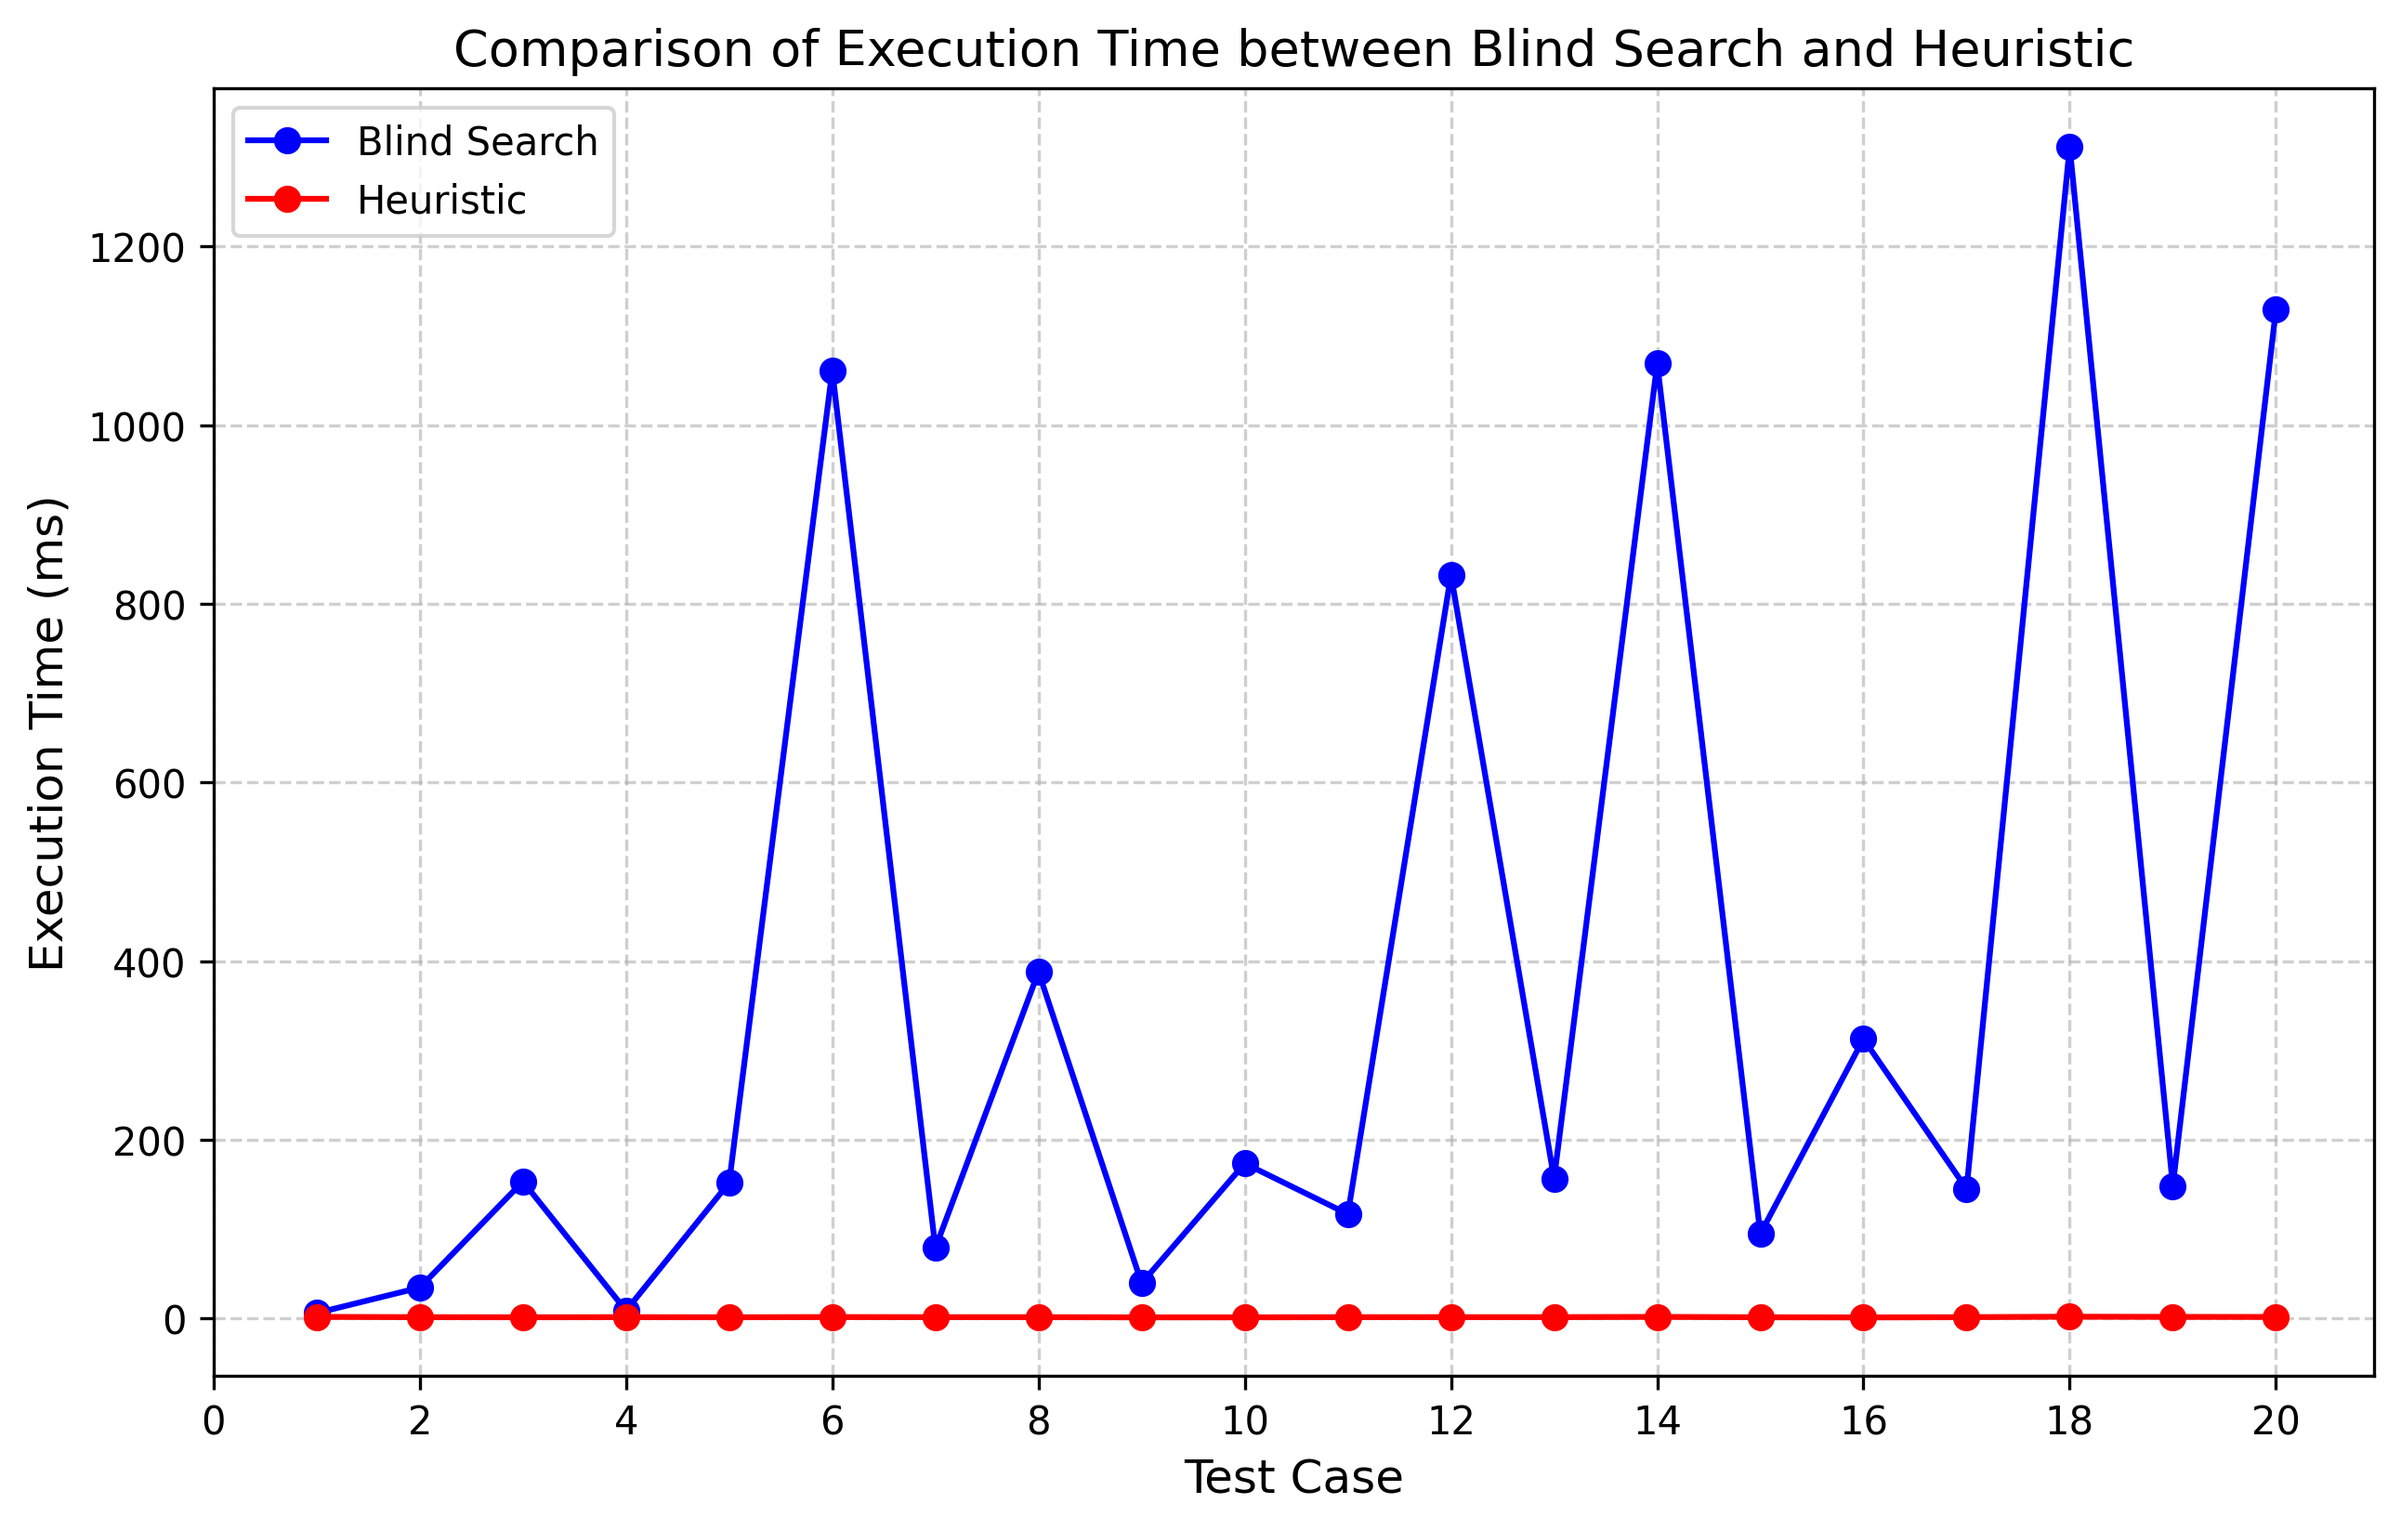
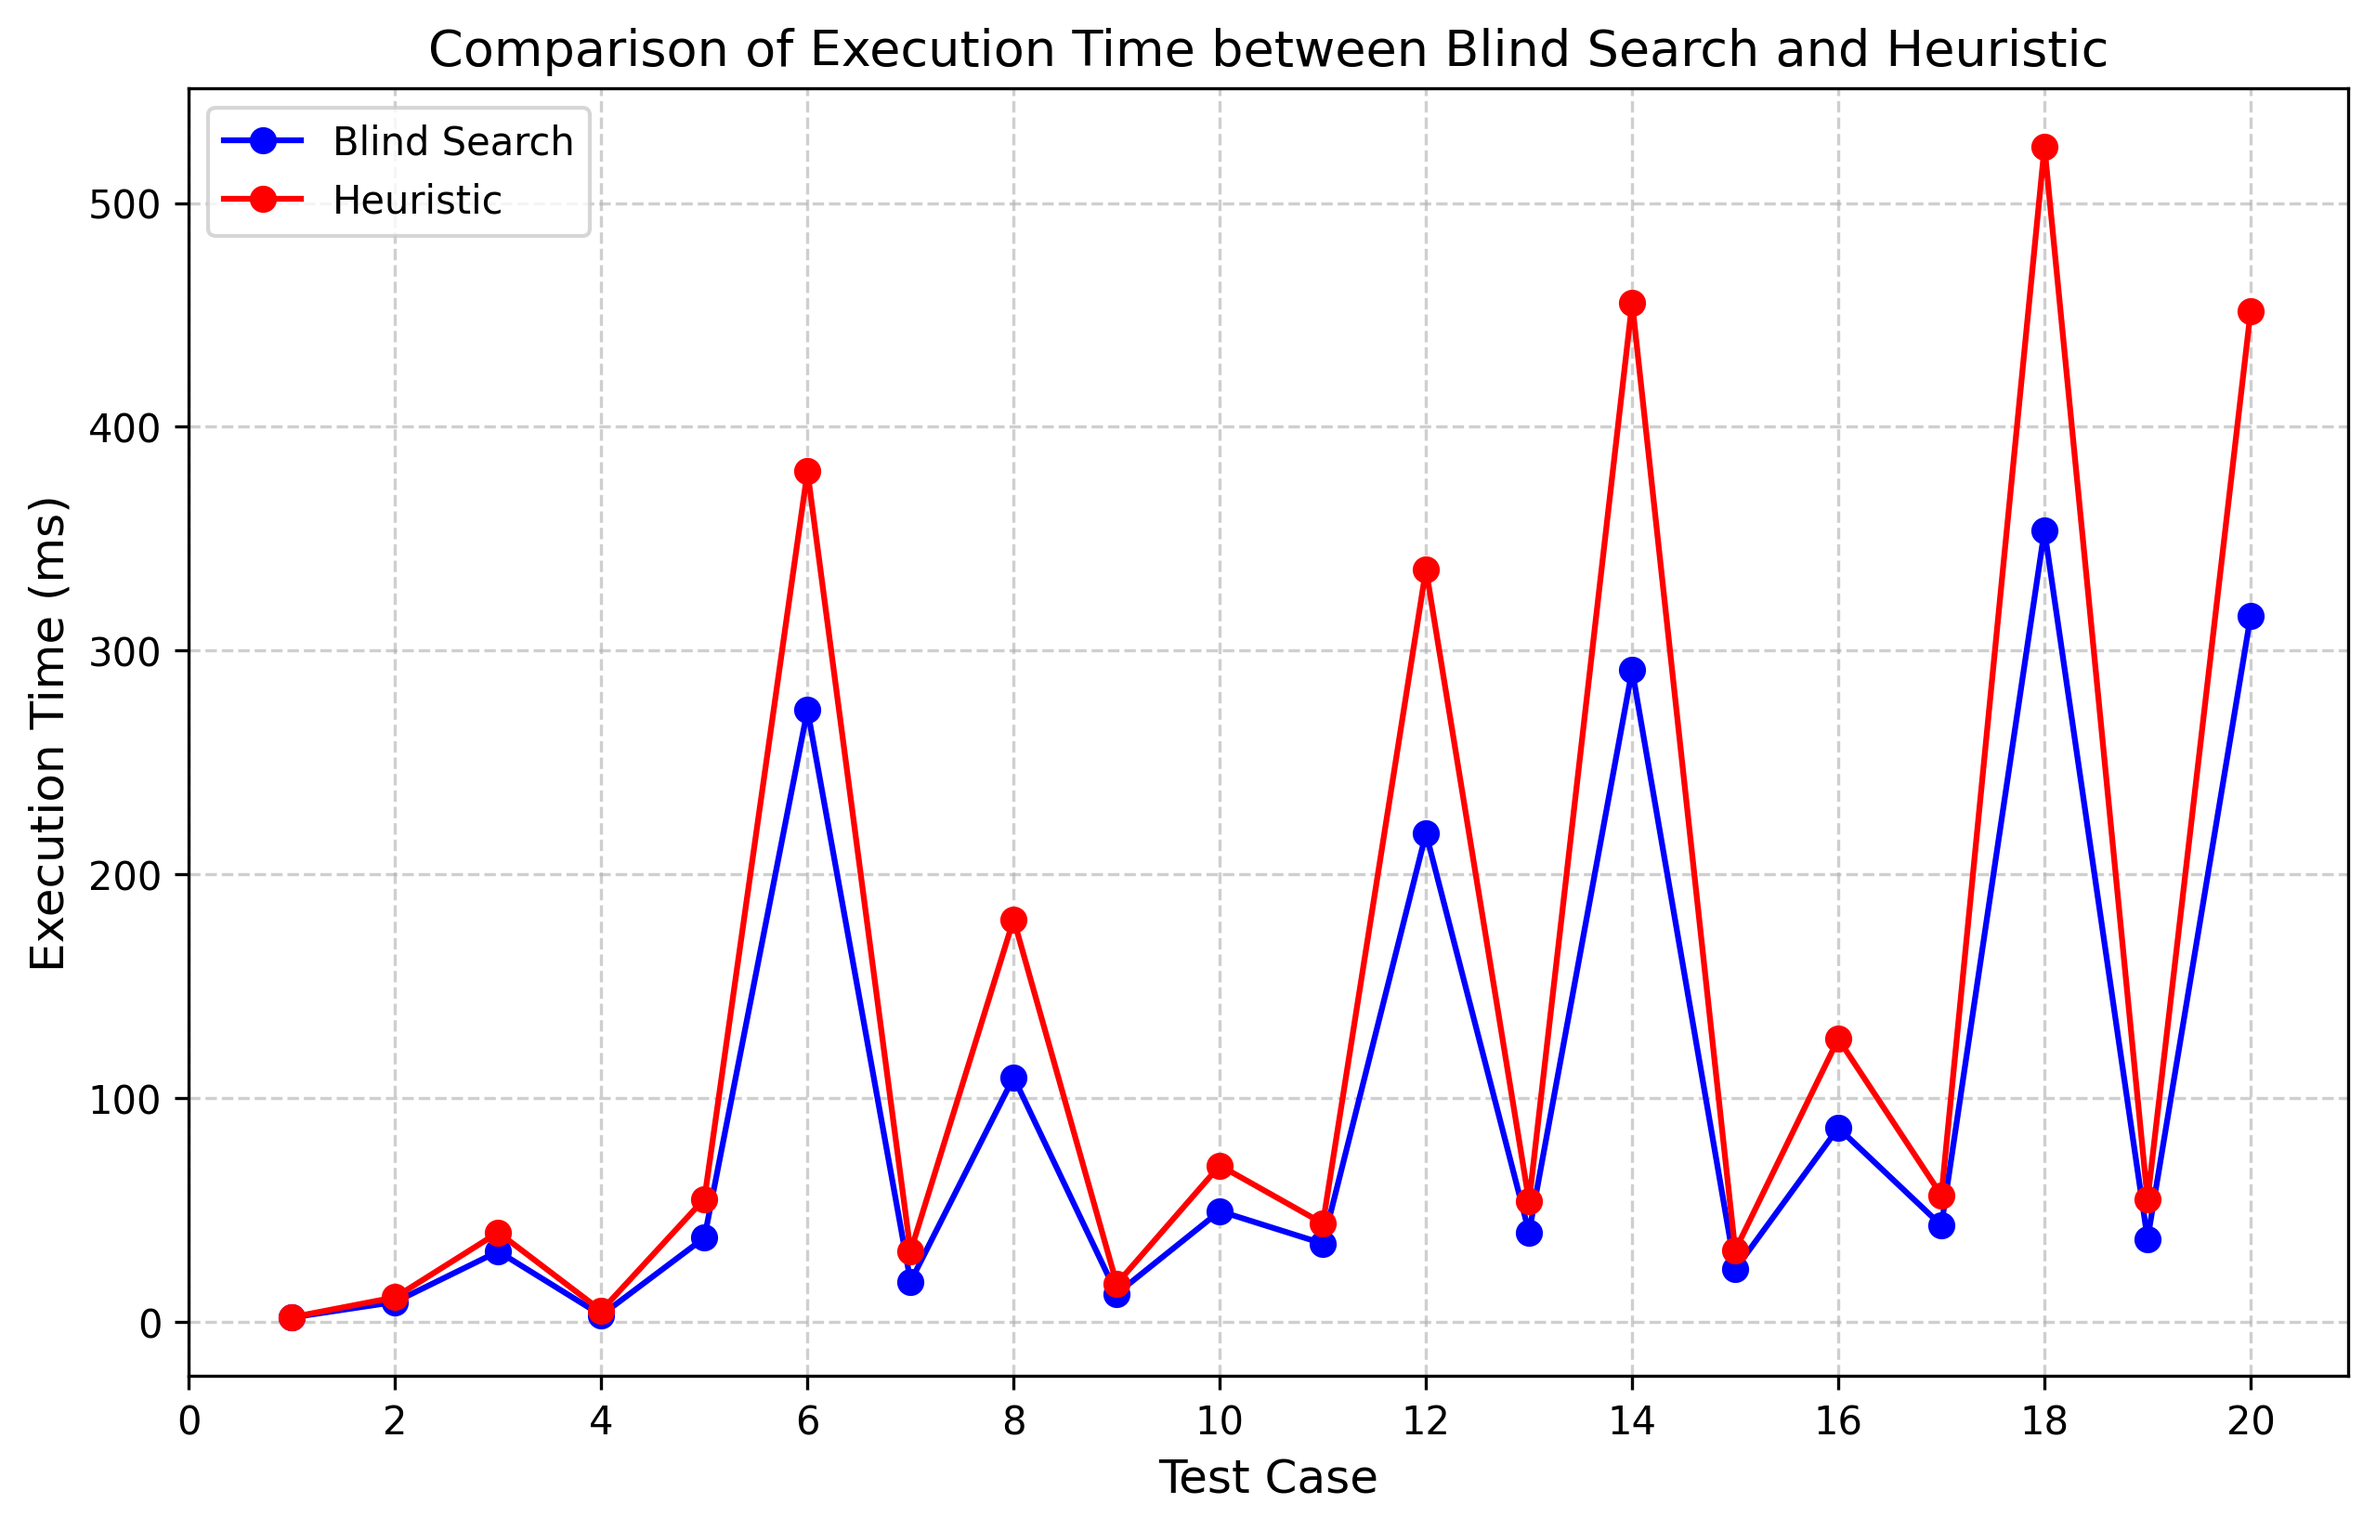
fix astar

diff --git a/Backend/Heuristic/index.py b/Backend/Heuristic/index.py
@@ -27,12 +27,13 @@ def astar(testcase):
         return ""
     start = (player0, boxes0)
     parent = {start: (None, None)}  # state -> (prev_state, move_char)
-    g_val={start:0} # keep track of g(n) values for each state
-    queue=[]
-    g_start=0
-    f_start=g_start+compute_heuristic(boxes0, goals)
-    heapq.heappush(queue, (f_start, g_start, start)) # push the initial state into the priority queue with f(0)=h(0)
-    
+    g_val = {start: 0}            
+    closed = set()                  # avoid re-expanding same state
+    queue = []
+
+    f_start = compute_heuristic(boxes0, goals)
+    heapq.heappush(queue, (f_start, 0, start))  # (f, g, state)
+
     while queue:
         _, g_current, state_current = heapq.heappop(queue) # get the state with the lowest f and remove it from the queue
         if g_current>g_val[state_current]:
@@ -48,13 +49,15 @@ def astar(testcase):
                 path_moves.append(ch)
                 s = prev
             return "".join(reversed(path_moves))
-        # second, get all next possible states
+
         for state_neighbor, move_char in utils.neighbors(state_current, walls, h, w):
-            g_neighbor=g_current+1 # cost from current state to the neighbor state
-            if state_neighbor not in g_val or g_neighbor<g_val[state_neighbor]:
-                g_val[state_neighbor]=g_neighbor
-                parent[state_neighbor]=(state_current, move_char)
-            _, boxes_neighbor = state_neighbor
-            f_neighbor=g_neighbor+compute_heuristic(boxes_neighbor, goals)
-            heapq.heappush(queue, (f_neighbor, g_neighbor, state_neighbor)) # push the next state into the priority queue with f(n)=g(n)+h(n)
+            g_neighbor = g_current + 1
+            if state_neighbor not in g_val or g_neighbor < g_val[state_neighbor]:
+                g_val[state_neighbor] = g_neighbor
+                parent[state_neighbor] = (state_current, move_char)
+
+                _, boxes_neighbor = state_neighbor
+                f_neighbor = g_neighbor + compute_heuristic(boxes_neighbor, goals)
+                heapq.heappush(queue, (f_neighbor, g_neighbor, state_neighbor))
+
     return None

diff --git a/Backend/utils.py b/Backend/utils.py
@@ -116,23 +116,36 @@ prioritiy queue sử dụng hàm đánh giá f(n) = g(n) + h(n)
     - h(n): hàm heuristic ước lượng chi phí từ trạng thái n đến trạng thái mục tiêu
 '''
 def compute_heuristic(boxes, goals):
-    '''
-    Heuristic function: sum of Manhattan distances from each goal to the nearest box which has not been computed yet
-    '''
+    """
+    Heuristic: sum of Manhattan distances from each box to the nearest unmatched goal.
+    """
     total_distance = 0
-    goals_copy = list(goals.copy())
+    unused_goals = set(goals)
 
     for box in boxes:
-        min_dist = float('inf')
-        nearest_goal = goals_copy[0]
-        for goal in goals_copy:
-            dist = abs(box[0] - goal[0]) + abs(box[1] - goal[1])
-            if dist < min_dist:
-                min_dist = dist
-                nearest_goal = goal
-        goals_copy.remove(nearest_goal)
-        total_distance += min_dist
+        nearest_goal = min(unused_goals, key=lambda g: abs(box[0]-g[0]) + abs(box[1]-g[1]))
+        dist = abs(box[0] - nearest_goal[0]) + abs(box[1] - nearest_goal[1])
+        total_distance += dist
+        unused_goals.remove(nearest_goal)
+
     return total_distance
+
+# def compute_heuristic(boxes, goals):
+#     """
+#     Approximate heuristic: sum of Manhattan distances from each box
+#     to the closest goal (ignoring whether goal is already matched).
+#     Faster but may overestimate slightly if multiple boxes share the same goal.
+#     """
+#     total_distance = 0
+
+#     for box in boxes:
+#         # Chọn khoảng cách nhỏ nhất từ box tới tất cả các goals
+#         nearest_dist = min(abs(box[0]-g[0]) + abs(box[1]-g[1]) for g in goals)
+#         total_distance += nearest_dist
+
+#     return total_distance
+
+
 
 def build_solutions(func):
     """ Build solutions for testcases using the provided function: bfs or astar """

diff --git a/Backend/index.py b/Backend/index.py
@@ -31,6 +31,7 @@ def solution(algorithm, testcase):
     memory_usage = peak /1024  # in KB
     
     print(f"Algorithm: {algorithm}")
+    print(f'solution: {solution}')
     print(f'Runtime: {runtime:.4f} seconds')
     print(f'Peak Memory Usage: {memory_usage:.2f} KB')
     return solution, runtime, memory_usage
@@ -52,7 +53,12 @@ def solution(algorithm, testcase):
 
 
 if __name__ == "__main__":
-    print(solution('blind_search', 'mini_cosmos_1.txt'))
+    for i in range(1, 22):
+        print(f"Test case {i}")
+        print(solution('blind_search', f'mini_cosmos_{i}.txt'))
+        print(solution('heuristic', f'mini_cosmos_{i}.txt'))
+        print('-' * 40)
+    # print(solution('blind_search', 'mini_cosmos_1.txt'))
     # print(solution('blind_search', 'mini_cosmos_2.txt'))
     # print(solution('blind_search', 'mini_cosmos_3.txt'))
     # print(solution('blind_search', 'mini_cosmos_4.txt'))
@@ -72,10 +78,12 @@ if __name__ == "__main__":
     # print(solution('blind_search', 'mini_cosmos_18.txt'))
     # print(solution('blind_search', 'mini_cosmos_19.txt'))
     # print(solution('blind_search', 'mini_cosmos_20.txt'))
+    # print(solution('blind_search', 'mini_cosmos_21.txt'))
 
 
 
-    print(solution('heuristic', 'mini_cosmos_1.txt'))
+
+    # print(solution('heuristic', 'mini_cosmos_1.txt'))
     # print(solution('heuristic', 'mini_cosmos_2.txt'))
     # print(solution('heuristic', 'mini_cosmos_3.txt'))
     # print(solution('heuristic', 'mini_cosmos_4.txt'))
@@ -102,6 +110,8 @@ if __name__ == "__main__":
     # solution('heuristic', 'mini_cosmos_3.txt')
     # solution('blind_search', 'mini_cosmos_4.txt')
     # solution('heuristic', 'mini_cosmos_4.txt')
+    # print(solution('heuristic', 'mini_cosmos_21.txt'))
+
 
 
 #     runtimesB = [

diff --git a/Backend/chartMt.py b/Backend/chartMt.py
@@ -2,17 +2,17 @@ import matplotlib.pyplot as plt
 
 # Data
 peak_memory_usageB = [
-    83.45, 478.14, 1888.48, 92.10, 2161.00,
-    14411.98, 950.85, 6745.23, 523.88, 2535.11,
-    1879.47, 11197.77, 2105.74, 14960.06, 1587.27,
-    4134.33, 2115.47, 16734.55, 2179.90, 15171.20
+    125.51, 479.11, 1886.94, 130.98, 2158.66,
+    14410.02, 955.95, 6741.60, 523.86, 2533.06,
+    1876.42, 11189.74, 2110.11, 14952.47, 1586.12,
+    4130.62, 2111.03, 16726.96, 2171.42, 15163.10,
 ]
 
 peak_memory_usageH = [
-    83.45, 83.52, 83.51, 92.17, 92.15,
-    92.14, 92.14, 92.13, 83.45, 83.45,
-    92.09, 92.08, 100.50, 100.49, 83.40,
-    83.39, 101.22, 101.21, 92.04, 92.03
+    124.72, 359.63, 1701.42, 130.98, 1991.65,
+    14949.70, 982.05, 4982.98, 470.96, 2296.51,
+    1687.51, 10568.58, 2184.03, 15621.86, 1091.72,
+    4242.74, 1963.54, 17500.48, 2005.07, 15864.96,
 ]
 
 # Test case indices

diff --git a/Backend/chartEt.py b/Backend/chartEt.py
@@ -2,17 +2,17 @@ import matplotlib.pyplot as plt
 
 # Data
 runtimesB = [
-    0.0061, 0.0346, 0.1534, 0.0088, 0.1521,
-    1.0613, 0.0789, 0.3881, 0.0395, 0.1736,
-    0.1169, 0.8327, 0.1565, 1.0691, 0.0948,
-    0.3130, 0.1451, 1.3116, 0.1485, 1.1293
+    0.0020, 0.0089, 0.0315, 0.0030, 0.0376,
+    0.2735, 0.0180, 0.1093, 0.0126, 0.0495,
+    0.0350, 0.2183, 0.0400, 0.2913, 0.0235,
+    0.0867, 0.0431, 0.3537, 0.0370, 0.3155,
 ]
 
 runtimesH = [
-    0.0018, 0.0015, 0.0014, 0.0015, 0.0014,
-    0.0016, 0.0015, 0.0015, 0.0013, 0.0013,
-    0.0015, 0.0015, 0.0015, 0.0018, 0.0014,
-    0.0012, 0.0015, 0.0020, 0.0018, 0.0017
+    0.0021, 0.0110, 0.0400, 0.0050, 0.0550,
+    0.3801, 0.0315, 0.1799, 0.0170, 0.0699,
+    0.0440, 0.3364, 0.0538, 0.4555, 0.0320,
+    0.1265, 0.0566, 0.5251, 0.0546, 0.4516,
 ]
 
 # Convert seconds → milliseconds
